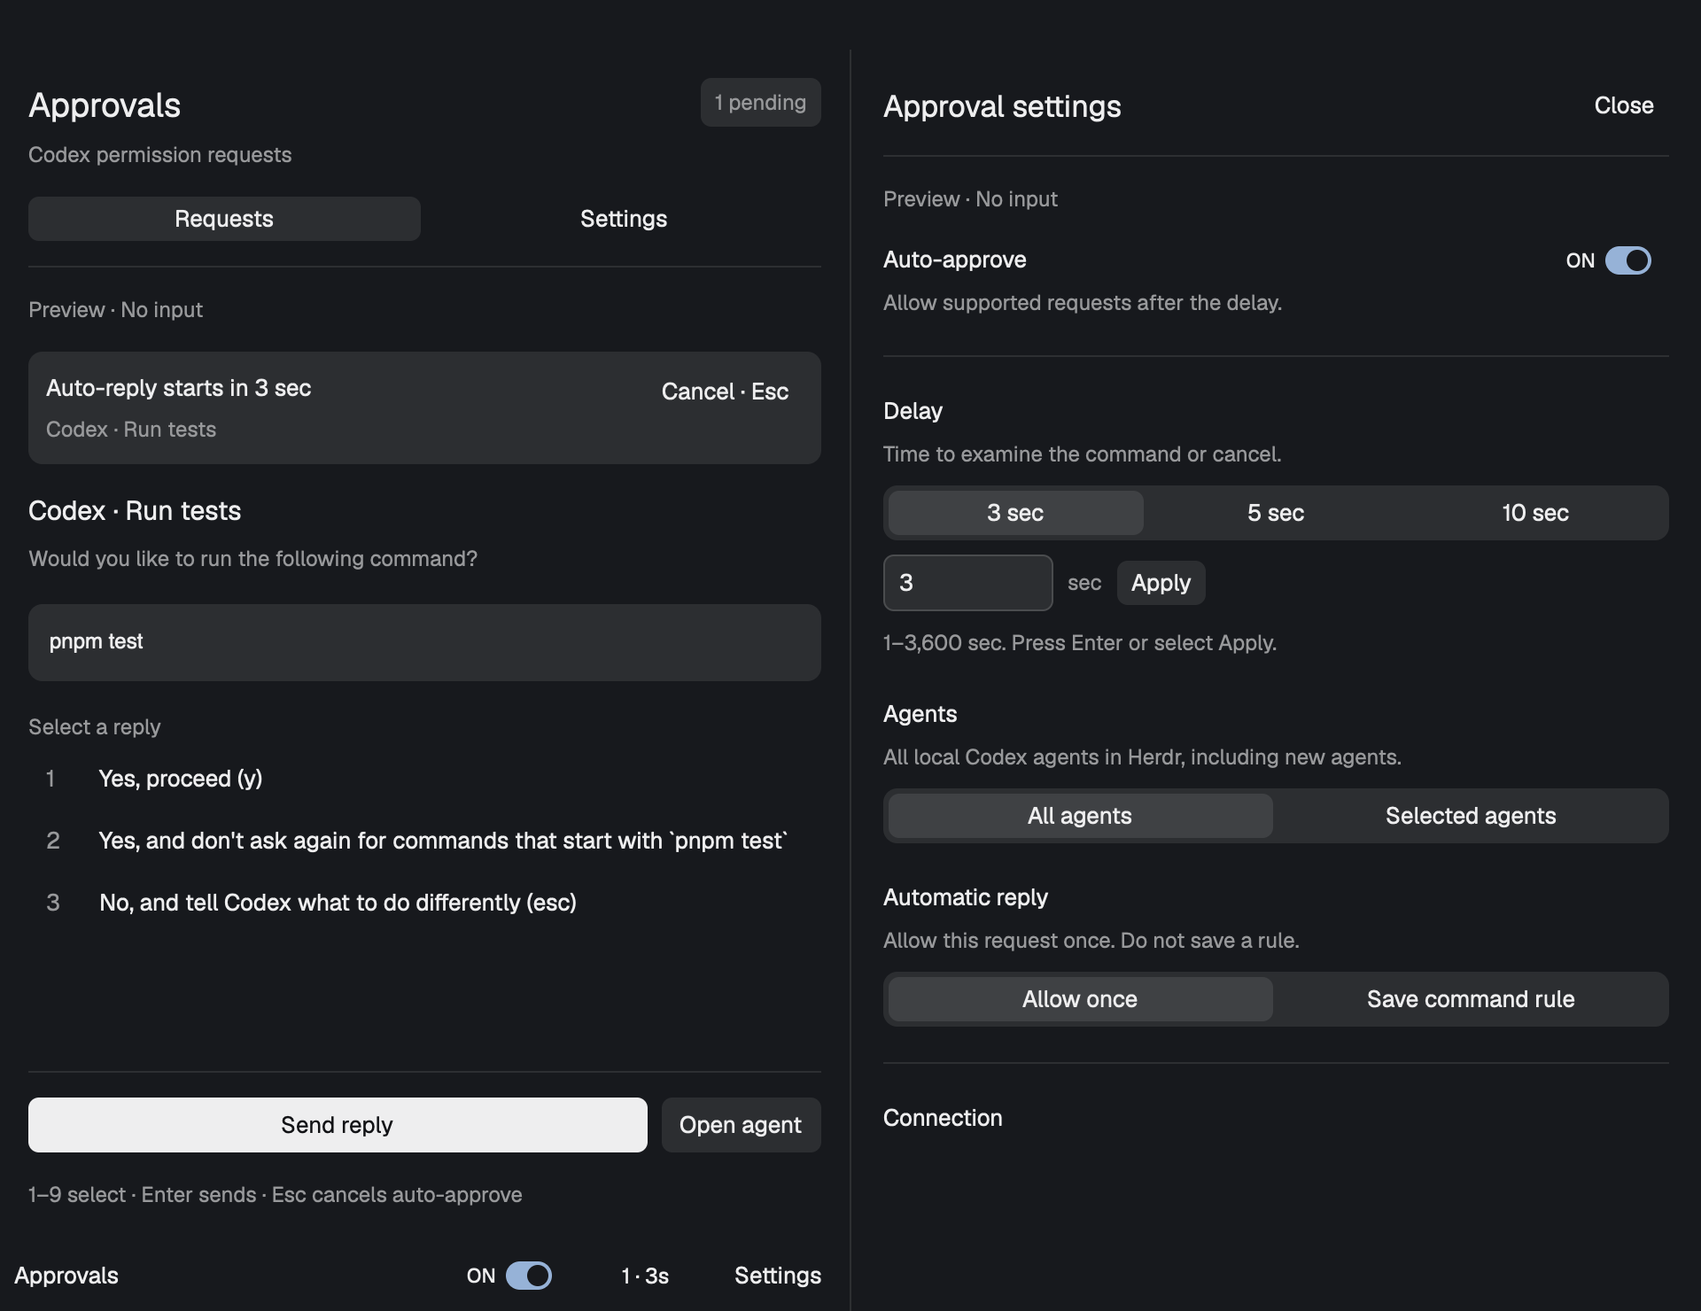
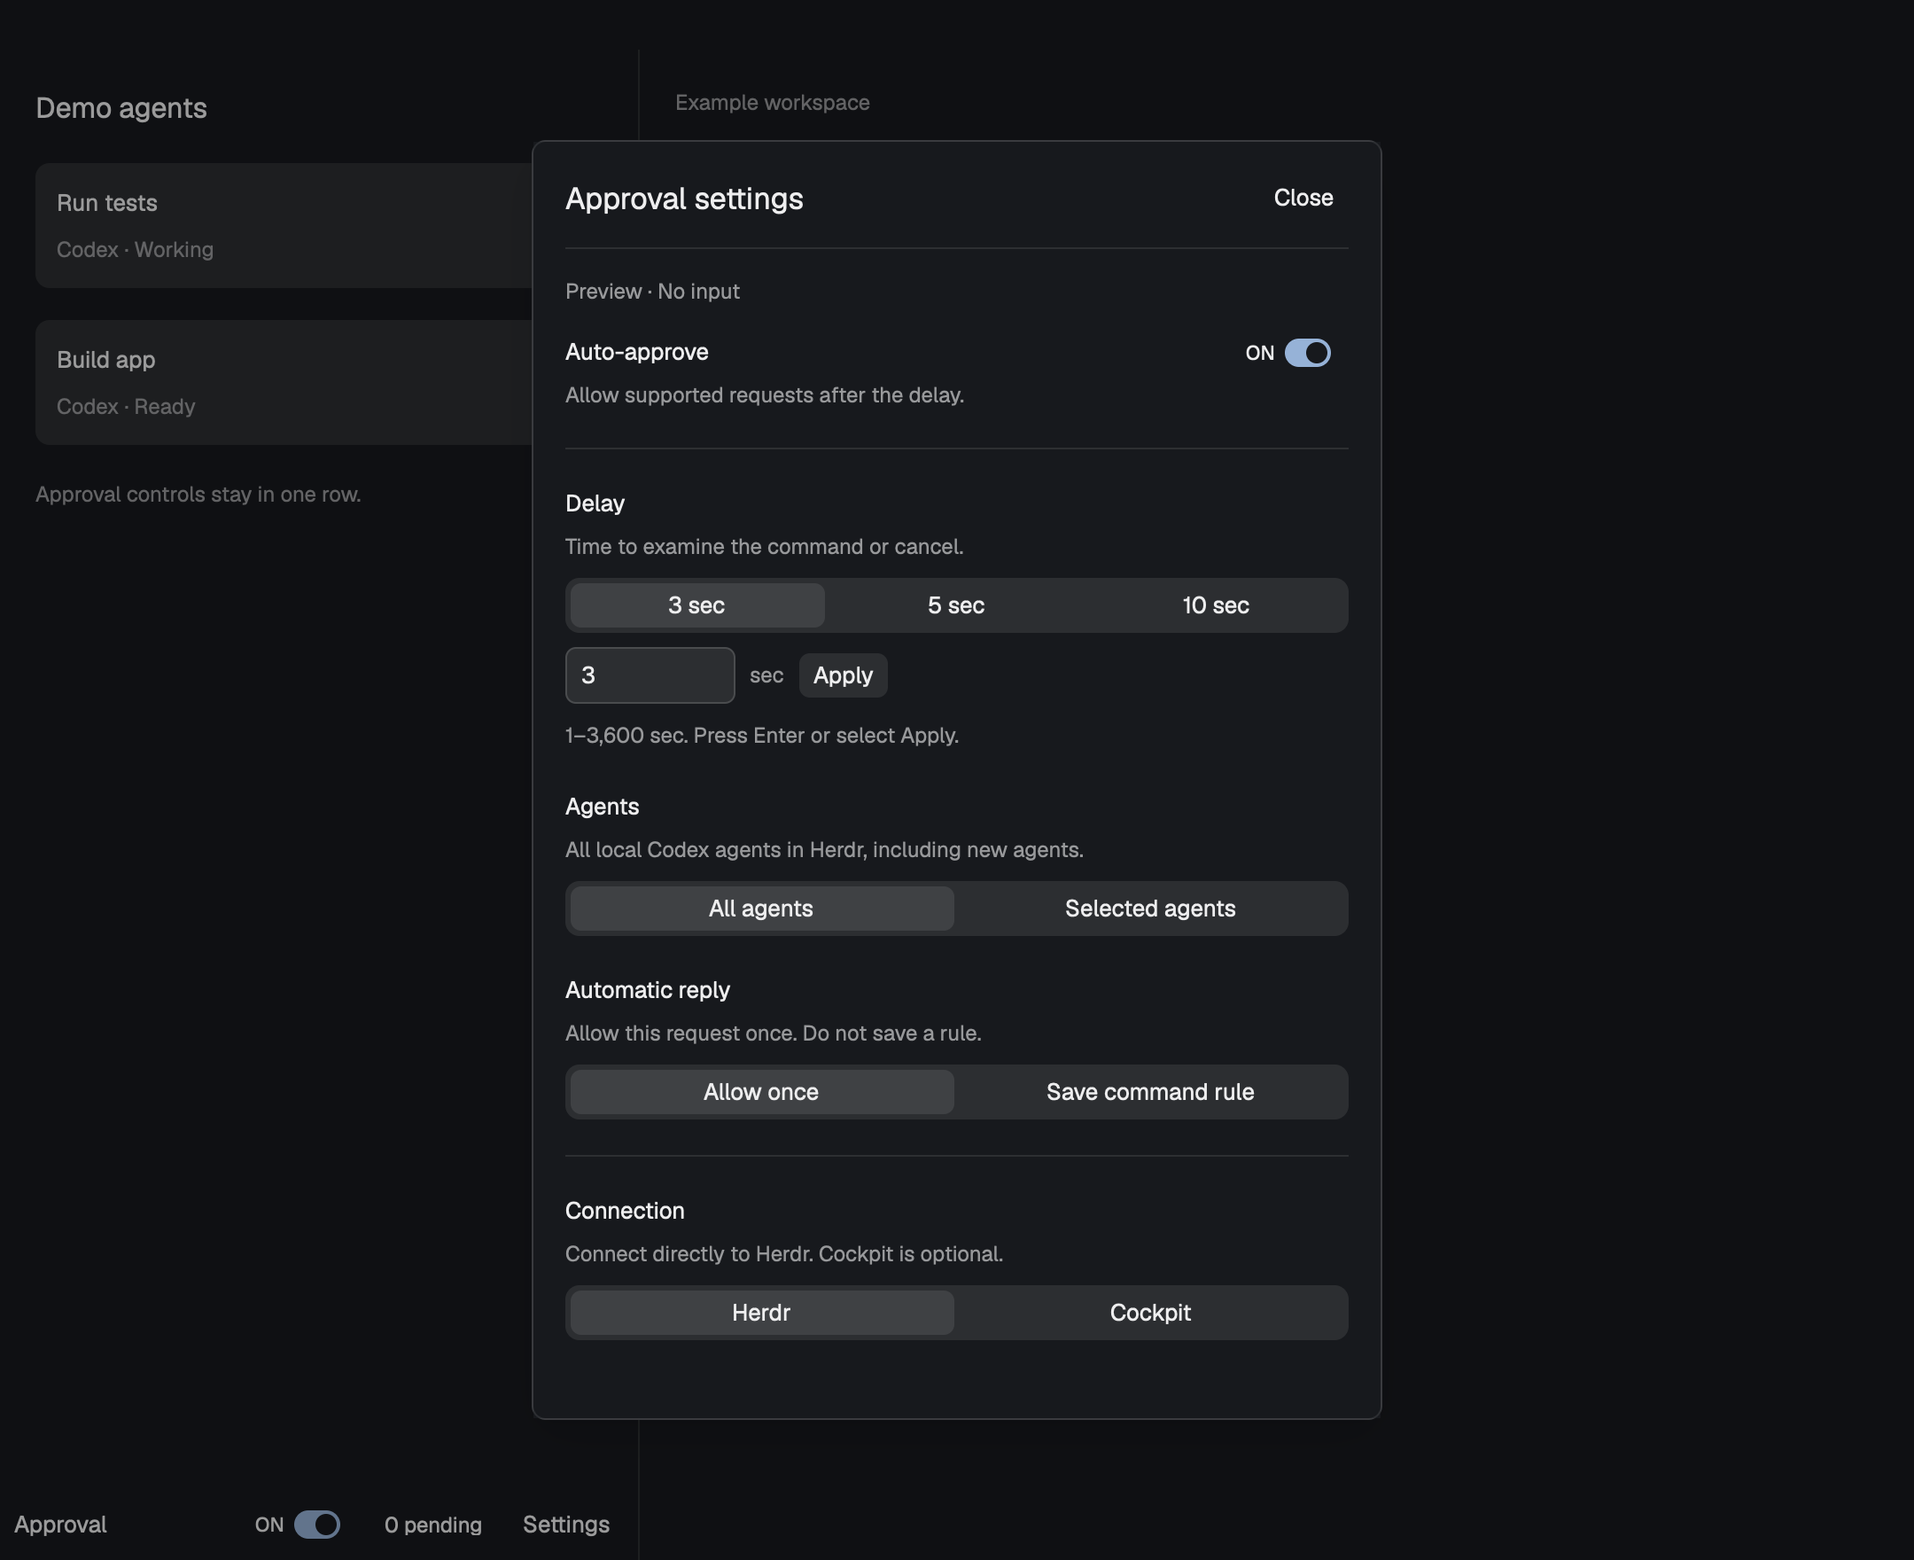
Show the compact widget and real popups as Herdr Approval

diff --git a/mods/approvals/ui.js b/mods/approvals/ui.js
@@ -195,7 +195,7 @@ function compactPanel(view) {
   return h_flex().id('approvals-compact').w_full().h(40).min_h(40).max_h(40).min_w(0).px(8).gap(4).items_center()
     .bg(t.background).text_color(t.foreground).text_size(12)
     .track_focus(view.focus).on_key_down((event, cx) => { if (view.key(event, cx)) cx.stop_propagation(); })
-    .child(div().flex_1().min_w(0).truncate().font_semibold().text_size(13).child('Approvals'))
+    .child(div().flex_1().min_w(0).truncate().font_semibold().text_size(13).child('Approval'))
     .child(autoToggle('approvals-compact-auto', view))
     .child(button('approvals-compact-requests', div().min_w(0).truncate().text_size(12).child(status), cx => row ? view.review(row, cx) : view.setTab('requests', cx),
       { compact: true, align: 'center', disabled: view.preview || view.busy || controller.busy }).w(78).flex_none().px(4).py(3))
@@ -238,7 +238,7 @@ function popupPanel(view) {
     .child(div().flex_1().min_w(0).font_semibold().text_size(17).child(view.tab === 'settings' ? 'Approval settings' : 'Approval requests'))
     .child(button('approvals-popup-close', 'Close', () => view.dismiss(), { compact: true, align: 'center' })));
   root.child(separator());
-  if (view.unavailable) return root.child(description('This panel is no longer available. Open Approvals again.'));
+  if (view.unavailable) return root.child(description('This panel is no longer available. Open Approval again.'));
   if (view.preview) root.child(description('Preview · No input'));
   if (view.tab === 'settings') return root.child(settings(view));
   return requestPanel(root, view, row);
@@ -255,7 +255,7 @@ export function panel(view, cx) {
     .track_focus(view.focus).on_key_down((event, cx) => { if (view.key(event, cx)) cx.stop_propagation(); });
   root.child(h_flex().min_w(0).items_start().gap(10)
     .child(v_flex().flex_1().min_w(0).gap(3)
-      .child(div().text_size(19).font_semibold().child('Approvals'))
+      .child(div().text_size(19).font_semibold().child('Approval'))
       .child(description('Codex permission requests')))
     .child(div().flex_none().px(8).py(4).rounded(6).bg(t.raised || t.surface).text_size(12).text_color(t.muted).child(`${rows.length} pending`)));
   root.child(h_flex().gap(4).min_w(0)

diff --git a/tools/preview.py b/tools/preview.py
@@ -1,3 +1,4 @@
+"""Capture the real strip and popup views with isolated, fictional requests."""
 from pathlib import Path
 import argparse
 import json
@@ -9,73 +10,151 @@ import time
 
 root = Path(__file__).resolve().parents[1]
 parser = argparse.ArgumentParser()
-parser.add_argument('--selected', action='store_true', help='Show the agent picker with fictional agents.')
+parser.add_argument('--view', choices=['all', 'settings', 'requests', 'agents'], default='all')
+parser.add_argument('--selected', action='store_true', help='Capture only the agent picker.')
 options = parser.parse_args()
-image_name = 'agents-preview.png' if options.selected else 'preview.png'
-temporary_root = '/private/tmp' if Path('/private/tmp').is_dir() else '/tmp'
-scratch = Path(tempfile.mkdtemp(prefix='ha-ui-', dir=temporary_root))
+views = ['agents'] if options.selected else ['settings', 'requests', 'agents'] if options.view == 'all' else [options.view]
 app = shutil.which('herdr-app')
 assert app, 'herdr-app must be on PATH'
-env = dict(os.environ)
-env.pop('HC_SOCKET', None)
-env.pop('HC_TERMINAL_ID', None)
-env['HERDR_APP_HOME'] = str(scratch)
-env['HC_SESSION'] = 'ha-ui-' + str(os.getpid())
-for key in ('XDG_CONFIG_HOME','XDG_CACHE_HOME','XDG_STATE_HOME','XDG_DATA_HOME','XDG_RUNTIME_DIR'):
-    directory=scratch/key.lower();directory.mkdir(mode=0o700);env[key]=str(directory)
-shutil.copytree(root/'mods/approvals',scratch/'mods/approvals')
-if options.selected:
+temporary_root = '/private/tmp' if Path('/private/tmp').is_dir() else '/tmp'
+
+driver = r'''
+import Base from './view.js';
+import {panel} from './ui.js';
+import {checking,nextCommand,props} from 'herdr';
+export default class Preview extends Base {
+  init(options,cx) {
+    const p=options??props()??{};
+    if(p.presentation){super.init(p,cx);return;}
+    super.init({...p,preview:true,compact:true},cx);
+    if(checking())return;
+    if(p.settings){this.controller.rows=[];this.controller.pending=null;}
+    if(p.agents){
+      this.scope='selected';this.selectedSessions=['preview'];
+      this.sessionCatalog.push({...this.sessionCatalog[0],sessionKey:'preview-working',address:'fixture-working',title:'Codex · Build app',status:'working'});
+    }
+    this.controller.provider={id:'preview',list:async()=>[],readQuestion:async()=>null,submit:async()=>{throw new Error('Preview cannot send input');}};
+    this.preview=false;
+    this.refresh=()=>{};this.syncSettings=()=>{};this.schedule=()=>{};
+    this.ensurePresentationOwner(cx);
+    cx.spawn(async cx=>{while(!this.closed){
+      const name=await nextCommand();
+      if(name==='settings'||name==='requests')this.command(name,cx);
+    }});
+  }
+  render(cx) {
+    if(this.controller?.pending)this.controller.pending.deadline=Date.now()+3000;
+    const view=this.presentation?this.presentationView():{...this,controller:this.controller};
+    return panel({...view,preview:true,key:()=>false},cx);
+  }
+}
+'''
+
+background = r'''
+import {View,div} from 'gpui-kit';
+import {v_flex} from 'gpui-base';
+import {theme,props} from 'herdr';
+export default class Demo extends View {
+  render(){
+    const t=theme(),p=props()??{};
+    const muted=text=>div().text_size(12).text_color(t.muted).child(text);
+    const root=v_flex().size_full().min_w(0).p(20).gap(18).bg(t.background).text_color(t.foreground);
+    if(p.zone==='footer')return root.p(12).gap(0).child(muted('Demo layout · Fictional agents'));
+    if(p.zone!=='sidebar')return root.child(muted('Example workspace'));
+    root.child(div().text_size(16).font_semibold().child('Demo agents'));
+    for(const [name,status] of [['Run tests','Working'],['Build app','Ready']]){
+      root.child(v_flex().gap(6).p(12).rounded(8).bg(t.raised||t.surface)
+        .child(div().text_size(13).font_medium().child(name)).child(muted('Codex · '+status)));
+    }
+    return root.child(muted('Approval controls stay in one row.'));
+  }
+}
+'''
+
+def capture(view):
+    scratch = Path(tempfile.mkdtemp(prefix='ha-ui-', dir=temporary_root))
+    env = dict(os.environ)
+    for key in ('HC_SOCKET', 'HC_TERMINAL_ID'):
+        env.pop(key, None)
+    env['HERDR_APP_HOME'] = str(scratch)
+    env['HC_SESSION'] = 'ha-ui-' + scratch.name
+    for key in ('XDG_CONFIG_HOME','XDG_CACHE_HOME','XDG_STATE_HOME','XDG_DATA_HOME','XDG_RUNTIME_DIR'):
+        directory = scratch/key.lower()
+        directory.mkdir(mode=0o700)
+        env[key] = str(directory)
     mod = scratch/'mods/approvals'
-    (mod/'main.js').rename(mod/'view.js')
-    (mod/'main.js').write_text("import Base from './view.js';export default class Preview extends Base{init(p,cx){super.init(p,cx);if(this.tab==='settings'){this.scope='selected';this.selectedSessions=['preview'];this.sessionCatalog.push({...this.sessionCatalog[0],sessionKey:'preview-working',address:'fixture-working',title:'Codex · Build app',status:'working'});}}}")
-else:
-    mod = scratch/'mods/approvals-gallery-settings'
     shutil.copytree(root/'mods/approvals', mod)
     (mod/'main.js').rename(mod/'view.js')
-    (mod/'mod.json').write_text(json.dumps({'place':'none','title':'Approval settings preview'}))
-    (mod/'main.js').write_text("import Base from './view.js';import {panel} from './ui.js';export default class Preview extends Base{render(cx){return panel({...this,controller:this.controller,presentation:true,compact:false,key:()=>false,dismiss:()=>{}},cx);}}")
-(scratch/'layouts').mkdir()
-requests = {'id':'approval-requests','type':'block','size':{'weight':1},'content':{'mod':'approvals','props':{'preview':True,'tab':'requests'}}}
-settings = {'id':'approval-settings','type':'block','size':{'weight':1},'content':{'mod':'approvals' if options.selected else 'approvals-gallery-settings','props':{'preview':True,'tab':'settings'}}}
-if not options.selected:
-    requests = {'id':'approval-examples','type':'column','size':{'weight':1},'children':[requests,{'id':'approval-strip','type':'block','size':{'px':40},'content':{'mod':'approvals','props':{'preview':True,'compact':True}}}]}
-(scratch/'layouts/approvals-preview.json').write_text(json.dumps({'id':'root','type':'row','divider':{'width':1,'color':'border'},'children':[requests,settings]}))
-(scratch/'shared.json').write_text(json.dumps({'layout':'approvals-preview','frame.welcomed':'skipped'}))
-(scratch/'settings.json').write_text(json.dumps({'zoom':1.0,'font_size':14,'ui_font_size':13}))
-(scratch/'keys.json').write_text(json.dumps({'global':{}}))
-version = subprocess.run([app,'--version'],capture_output=True,text=True,check=True).stdout.strip().split()[-1]
-(scratch/'update-notes.json').write_text(json.dumps({'last_run':version,'presented':[]}))
-(scratch/'window.json').write_text(json.dumps({'state':'windowed','bounds':[80,80,760,980] if options.selected else [80,80,960,740]}))
+    (mod/'main.js').write_text(driver)
+    (mod/'mod.json').write_text('{"place":"none","title":"Approval preview"}')
+    (mod/'host.js').write_text("const blocked=async()=>{throw new Error('Preview host IO is disabled');};export const host={hc:blocked};export const journalHost={read:blocked,write:blocked};export const rpc=blocked;export const cockpitInfo=blocked;")
+    context = scratch/'mods/preview-background'
+    context.mkdir()
+    (context/'mod.json').write_text('{"place":"none"}')
+    (context/'main.js').write_text(background)
+    strip = {'id':'approval-widget','type':'block','size':{'px':40},'content':{'mod':'approvals','props':{'panelId':'approval-widget','agents':view=='agents','settings':view=='settings'}}}
+    backdrop = lambda zone: {'id':'preview-'+zone,'type':'block','size':{'weight':1},'content':{'mod':'preview-background','props':{'zone':zone}}}
+    if view == 'settings':
+        layout = {'id':'root','type':'row','divider':{'width':1,'color':'border'},'children':[
+            {'id':'demo-sidebar','type':'column','size':{'px':360},'children':[backdrop('sidebar'),strip]},backdrop('workspace')]}
+        width, height = 1080, 880
+    else:
+        layout = {'id':'root','type':'column','children':[backdrop('footer'),strip]}
+        width, height = 540, 800 if view=='requests' else 880
+    (scratch/'layouts').mkdir()
+    (scratch/'layouts/approval-preview.json').write_text(json.dumps(layout))
+    (scratch/'shared.json').write_text('{"layout":"approval-preview","frame.welcomed":"skipped"}')
+    (scratch/'settings.json').write_text('{"zoom":1,"font_size":14,"ui_font_size":13}')
+    (scratch/'keys.json').write_text('{"global":{}}')
+    version = subprocess.run([app,'--version'],capture_output=True,text=True,check=True).stdout.strip().split()[-1]
+    (scratch/'update-notes.json').write_text(json.dumps({'last_run':version,'presented':[]}))
+    (scratch/'window.json').write_text(json.dumps({'state':'windowed','bounds':[80,80,width,height]}))
 
-def command(args, timeout=10):
-    result=subprocess.run([app,*args],env=env,capture_output=True,text=True,timeout=timeout)
-    if result.returncode: raise RuntimeError(result.stderr or result.stdout)
-    return result.stdout
+    def call(*args):
+        return subprocess.run([app,*args],env=env,capture_output=True,text=True,check=True,timeout=20).stdout.strip()
 
-process=None
-with (scratch/'preview.log').open('w') as log:
+    process = None
+    image_name = {'settings':'preview.png','requests':'requests-preview.png','agents':'agents-preview.png'}[view]
     try:
-        process=subprocess.Popen([app],env=env,stdout=log,stderr=log,start_new_session=True)
-        for _ in range(160):
-            if (scratch/'herdr-app.sock').exists(): break
-            if process.poll() is not None: raise RuntimeError((scratch/'preview.log').read_text()[-2000:])
-            time.sleep(0.1)
-        else: raise RuntimeError('Preview window did not start')
-        command(['do','layout.switch',json.dumps({'name':'approvals-preview'})])
+        with (scratch/'preview.log').open('w') as log:
+            process = subprocess.Popen([app],env=env,stdout=log,stderr=log,start_new_session=True)
+        for _ in range(150):
+            if (scratch/'herdr-app.sock').exists():
+                break
+            if process.poll() is not None:
+                raise RuntimeError((scratch/'preview.log').read_text()[-2000:])
+            time.sleep(.1)
+        else:
+            raise RuntimeError('Preview app did not start')
+        call('check',str(mod))
+        call('do','layout.switch','{"name":"approval-preview"}')
+        time.sleep(.4)
+        for overlay in json.loads(call('status')).get('overlays',[]):
+            call('do','overlay.close',json.dumps({'id':overlay.get('id') if isinstance(overlay,dict) else overlay}))
+        call('do','approvals.requests' if view=='requests' else 'approvals.settings')
         for _ in range(40):
-            status=json.loads(command(['status']))
-            if status.get('layout')=='approvals-preview' and not status.get('errors'): break
-            time.sleep(0.1)
-        assert not status.get('errors'), status.get('errors')
-        for overlay in status.get('overlays',[]):
-            command(['do','overlay.close',json.dumps({'id':overlay.get('id') if isinstance(overlay,dict) else overlay})])
-        time.sleep(0.5)
-        command(['shot',str(root/image_name)])
-        result={'isolated_app_home':str(scratch),'cockpit_installed':False,'preview_only':True,'errors':status.get('errors',[]),'screenshot':image_name}
-        (root/'preview-result.json').write_text(json.dumps(result,indent=2)+'\n')
-        print(json.dumps(result,indent=2))
+            status = json.loads(call('status'))
+            assert not status.get('errors'), status.get('errors')
+            if status.get('overlays'):
+                break
+            time.sleep(.1)
+        else:
+            raise RuntimeError('Native popup did not open')
+        time.sleep(.3)
+        call('shot',str(root/image_name))
+        return {'view':view,'screenshot':image_name,'isolated_app_home':str(scratch),'native_popup':True,'host_io_disabled':True,'errors':status.get('errors',[])}
     finally:
         if process and process.poll() is None:
-            try:command(['do','app.quit'])
-            except Exception:process.terminate()
+            try:
+                call('do','app.quit')
+            except Exception:
+                process.terminate()
+            try:
+                process.wait(timeout=5)
+            except subprocess.TimeoutExpired:
+                process.kill()
         subprocess.run(['hc','server','stop','--json'],env=env,capture_output=True,text=True,timeout=10)
+
+result = [capture(view) for view in views]
+(root/'preview-result.json').write_text(json.dumps(result,indent=2)+'\n')
+print(json.dumps(result,indent=2))

diff --git a/tools/install.py b/tools/install.py
@@ -5,7 +5,7 @@ import os
 import shutil
 import tempfile
 
-parser = ArgumentParser(description='Install the independent Herdr Approvals mod')
+parser = ArgumentParser(description='Install the independent Herdr Approval mod')
 parser.add_argument('--target', type=Path, default=Path(os.environ.get('HERDR_APP_HOME', str(Path.home() / '.config/herdr-app'))))
 parser.add_argument('--update', action='store_true')
 args = parser.parse_args()

diff --git a/README.md b/README.md
@@ -1,11 +1,13 @@
-# Herdr Approvals
+# Herdr Approval
 
 A native permission panel for Herdr. Cockpit is optional.
 
-![Requests and settings with a fictional command](preview.png)
-
 You can reply to a Codex permission request or enable automatic approval.
 Automatic approval is off by default.
+
+![Compact Approval strip with its settings popup in a demo layout](preview.png)
+
+*Compact mode in a demo layout. Settings open in a popup. All requests are fictional.*
 
 ## Settings
 
@@ -20,7 +22,13 @@ Automatic approval is off by default.
 **All agents** includes new local Codex agents in Herdr.
 **Selected agents** lets you select those agents before a request arrives.
 Selection applies to the current terminal process. A new process requires a new selection.
-See the [agent picker](agents-preview.png).
+
+<details>
+<summary>View agent selection</summary>
+
+<img src="agents-preview.png" alt="Selected agents in the Approval settings popup" width="480">
+
+</details>
 
 **Allow once** permits the current request.
 **Save command rule** selects a command rule that Codex offers.
@@ -37,6 +45,13 @@ In a popup, Esc closes the window.
 In the full panel, Esc stops all current automatic requests. Cancellation sends no rejection.
 **Open agent** shows the terminal.
 Other mods can open a tab with `approvals.settings` or `approvals.requests`. These commands send no reply.
+
+<details>
+<summary>View a request</summary>
+
+<img src="requests-preview.png" alt="Approval request popup with a fictional command and numbered replies" width="480">
+
+</details>
 
 ## Requirements
 
@@ -58,7 +73,7 @@ Validation used macOS. Linux is not yet validated.
 For installation by an agent, give it this instruction:
 
 ```text
-Read ~/.config/herdr-app/AGENTS.md, then install the Approvals mod from https://github.com/iyk2h/herdr-approvals.
+Read ~/.config/herdr-app/AGENTS.md, then install the Approval mod from https://github.com/iyk2h/herdr-approvals.
 ```
 
 Copy `mods/approvals/` to `~/.config/herdr-app/mods/approvals/`.

diff --git a/docs/gallery-release.md b/docs/gallery-release.md
@@ -6,7 +6,7 @@ Codex permission controls for Herdr. Manual replies, optional automatic approval
 
 ## Release description
 
-Herdr Approvals adds permission controls for supported local Codex menus in English.
+Herdr Approval adds permission controls for supported local Codex menus in English.
 Automatic approval is off by default. Cockpit is optional.
 Supported requests include command execution and terminal input. Terminal input approvals always allow once.
 

diff --git a/RECIPE.md b/RECIPE.md
@@ -1,8 +1,8 @@
-# Herdr Approvals
+# Herdr Approval
 
 A native permission panel for Herdr. Cockpit is optional.
 
-![Requests and settings](preview.png)
+![Compact Approval strip with its settings popup in a demo layout](preview.png)
 
 By default, the mod opens in a 360px right panel. It uses the active Herdr theme.
 **Requests** shows the requested action, numbered replies, and an automatic approval countdown.

diff --git a/AGENTS.md b/AGENTS.md
@@ -1,4 +1,4 @@
-# Herdr Approvals
+# Herdr Approval
 
 Standalone native Herdr Mod. Runtime is GPUI JavaScript, not a browser or Node.
 No runtime dependencies on Cockpit, Node, Rust, or a new daemon.
